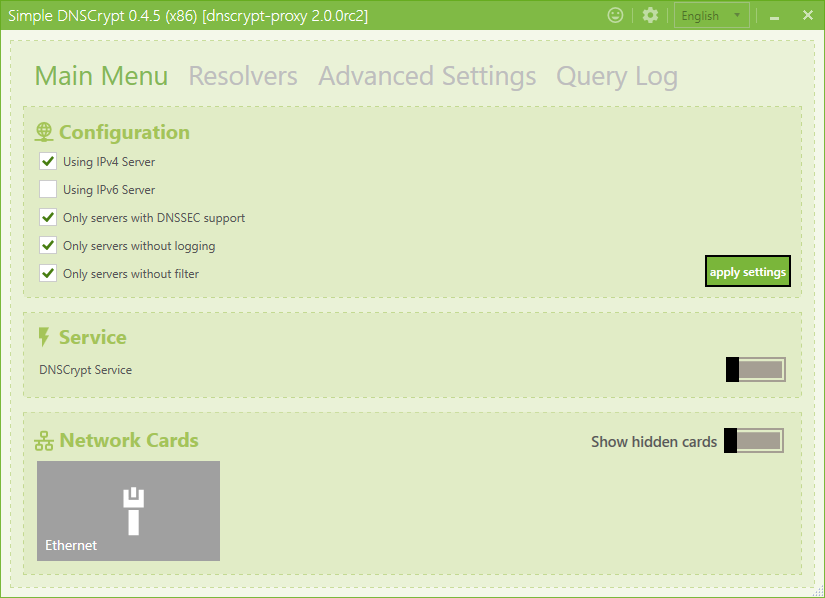
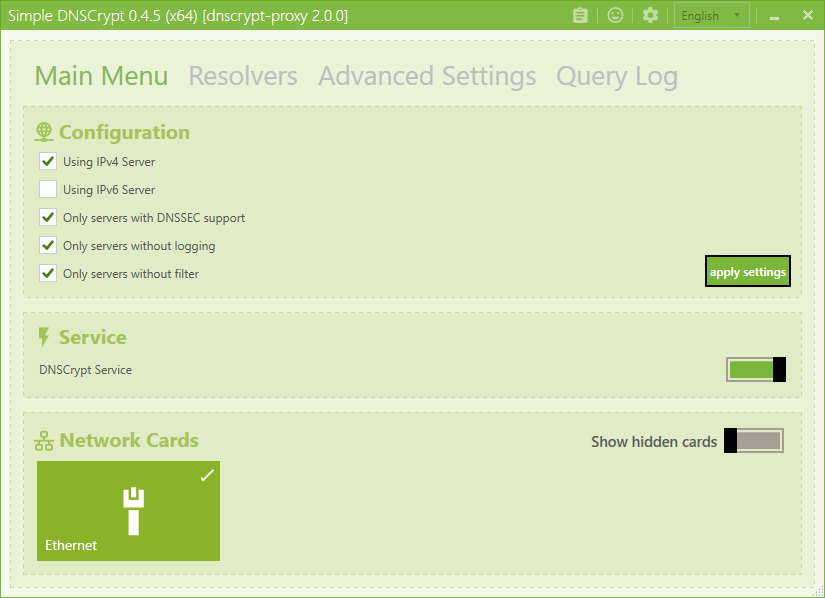
Update Screenshots

diff --git a/README.md b/README.md
@@ -65,6 +65,10 @@ If you can add or correct a language, feel free to do so:
 
 ![resolvers](https://raw.githubusercontent.com/bitbeans/SimpleDnsCrypt/master/img/preview/resolvers.png)
 
+![advanced](https://raw.githubusercontent.com/bitbeans/SimpleDnsCrypt/master/img/preview/advancedsettings.png)
+
+![settings](https://raw.githubusercontent.com/bitbeans/SimpleDnsCrypt/master/img/preview/settings.png)
+
 ## Built With
 
 * [Visual Studio 2017 (15.5.x)](https://www.visualstudio.com/downloads/)
